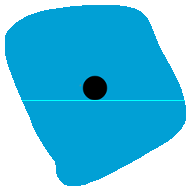
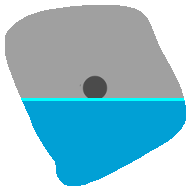
色々
ガイドラインの上半分を暗くした

diff --git a/makizushi/div_parts.py b/makizushi/div_parts.py
@@ -4,6 +4,7 @@ from PIL import Image, ImageDraw
 from functools import reduce
 import csv 
 import flood
+import numpy as np
 
 imagename = "mee"
 #画像の読み込み
@@ -144,9 +145,16 @@ def resipi_line_image(contours):
         for j in contours[i]:
             if j[0][1] >= y:
                 y = j[0][1]
-        for k in range(line_image.width):
-            line_image.putpixel((k, y), (0, 255, 255))
-        line_image.save("line_image/line_image" + str(i) + ".png")
+        for l in range(3):
+            for k in range(line_image.width):
+                line_image.putpixel((k, y+l-2), (0, 255, 255))
+        line_image.save("line_image_a/line_image" + str(i) + ".png")
+        y_image = cv2.imread("line_image_a/line_image" + str(i) + ".png")
+        _, width, _ = y_image.shape[:3]
+        for k in range(y-2):
+            for j in range(width):
+                y_image[k, j] = y_image[k, j, 0]*0.4+75
+        cv2.imwrite("line_image/line_image" + str(i) + ".png", y_image)
         line_imagename.append("line_image" + str(i))
     return line_imagename
 
@@ -180,7 +188,7 @@ def div_parts(imagename):
     nori_base_size = size_nori[1]
     rice_base_size = size_rice[1]
     for i in range(len(contours)):
-        line_imagename_list = []
+        line_imagename_list = ""
         start_parts = start_point(contours[i])
         partsimage = image2parts(imagename, contours, i)
         IDcolor_partsimage = image2parts(number_imagename, contours, i)
@@ -189,8 +197,8 @@ def div_parts(imagename):
                 resipi_line_partsimage = image2parts("line_image/" + line_imagename[j], contours, i)
                 #ガイドラインイメージ保存
                 resipi_line_partsimage[0].save("resipi_line_image/" + resipi_line_partsimage[1].split("/")[1] + '.png')
-                line_imagename_list.append(resipi_line_partsimage[1].split("/")[1] + '.png')
-
+                line_imagename_list = line_imagename_list + resipi_line_partsimage[1].split("/")[1] + '.png, '
+    
         #入力画像(0)と完成イメージ(1)
         if i == 1 and i == 0:
             partsimage[0].save("input_image/" + partsimage[1] + '.png')
@@ -208,7 +216,8 @@ def div_parts(imagename):
             hierarchy[i][2] = 0
             data[hierarchy[i][3]][4] = -1
 
-        data.append([i, partsimage[1] + ".png", IDcolor_partsimage[1] + ".png", matches[i], hierarchy[i][2], hierarchy[i][3], None, count_child(i, hierarchy), round(30*size_rice[i]/rice_base_size)*10, "'1/"+str(nori_mai)+"'", start_parts, line_imagename_list])
+
+        data.append([i, partsimage[1] + ".png", IDcolor_partsimage[1] + ".png", matches[i], hierarchy[i][2], hierarchy[i][3], None, count_child(i, hierarchy), round(30*size_rice[i]/rice_base_size)*10, "'1/"+str(nori_mai), start_parts, line_imagename_list[:-2]])
     
     for k in range(len(data)):
         #独立パーツ番号編集
@@ -234,9 +243,9 @@ def div_parts(imagename):
                 c = c+1
           
     #親パーツ並べて
-    for h in data:
-        if h[4] != -1 and h[4] != 0 and h[5] != -1:
-            csv_w(h, "a")
+    for j in data:
+        if j[4] != -1 and j[4] != 0 and j[5] != -1:
+            csv_w(j, "a")
     
     #その下に独立パーツ
     for j in data:
